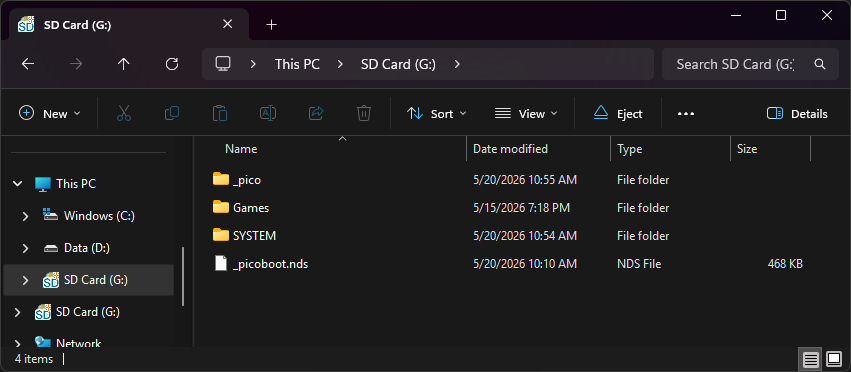
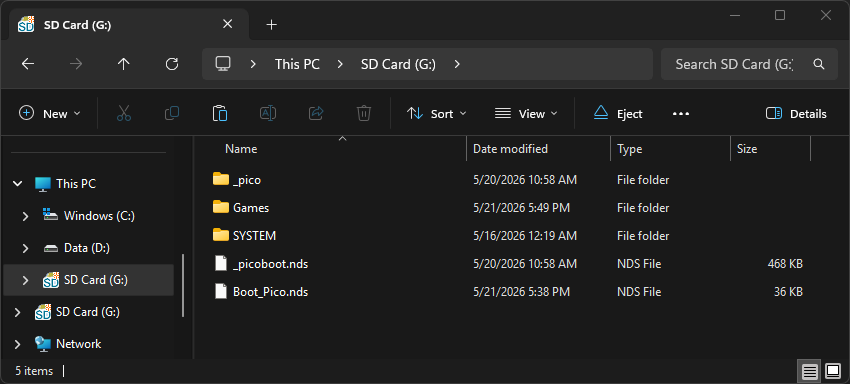
Add nds-miniboot binary for chainloading Pico-Launcher in Sakura

diff --git a/docs/cart-guides/m3izero_g003.md b/docs/cart-guides/m3izero_g003.md
@@ -39,7 +39,7 @@ title: M3i Zero [GMP-Z003]
     
     1. The files on your SD card should now look like this:
     
-        - ![M3DS](../images/SD_Files/M3iZero/SakuraPico.png){ align=left width="600"}
+        - ![M3iZero](../images/SD_Files/M3iZero/Pico.png){ align=left width="600"}
     
     1. Insert the SD card back into your cart, plug the cart into your DS, and see if it boots into the menu.
 
@@ -98,12 +98,14 @@ title: M3i Zero [GMP-Z003]
 
         - `_picoboot.nds`
 
+    1. Download [this `Boot_Pico.nds`](../assets/Boot_Pico.nds) nds-miniboot binary and also place it on the SD card root. (Sakura will refuse to boot `_picoboot.nds` directly, since it doesn't have a passme header.)
+
     1. Copy the `usrcheat.dat` file you downloaded earlier into the `_pico` folder on your SD card.
 
     1. Create a `Games` folder in your SD card root, and place any `.nds` game ROMs you'd like to play inside.
 
     1. The files on your SD card should now look like this:
     
-        - ![M3DS](../images/SD_Files/M3iZero/SakuraPico.png){ align=left width="600"}
+        - ![M3iZero](../images/SD_Files/M3iZero/SakuraPico.png){ align=left width="600"}
     
-    1. Place the SD card back into the cartridge, and boot it up. You'll be asked to select between TouchPod or Sakura, choose whichever you prefer. You can change this later. When you want to use Pico-Launcher, simply launch `_picoboot.nds` in Sakura/Touchpod.
+    1. Place the SD card back into the cartridge, and boot it up. You'll be asked to select between TouchPod or Sakura, choose whichever you prefer. You can change this later. When you want to use Pico-Launcher, simply launch `Boot_Pico.nds` in Sakura/Touchpod.